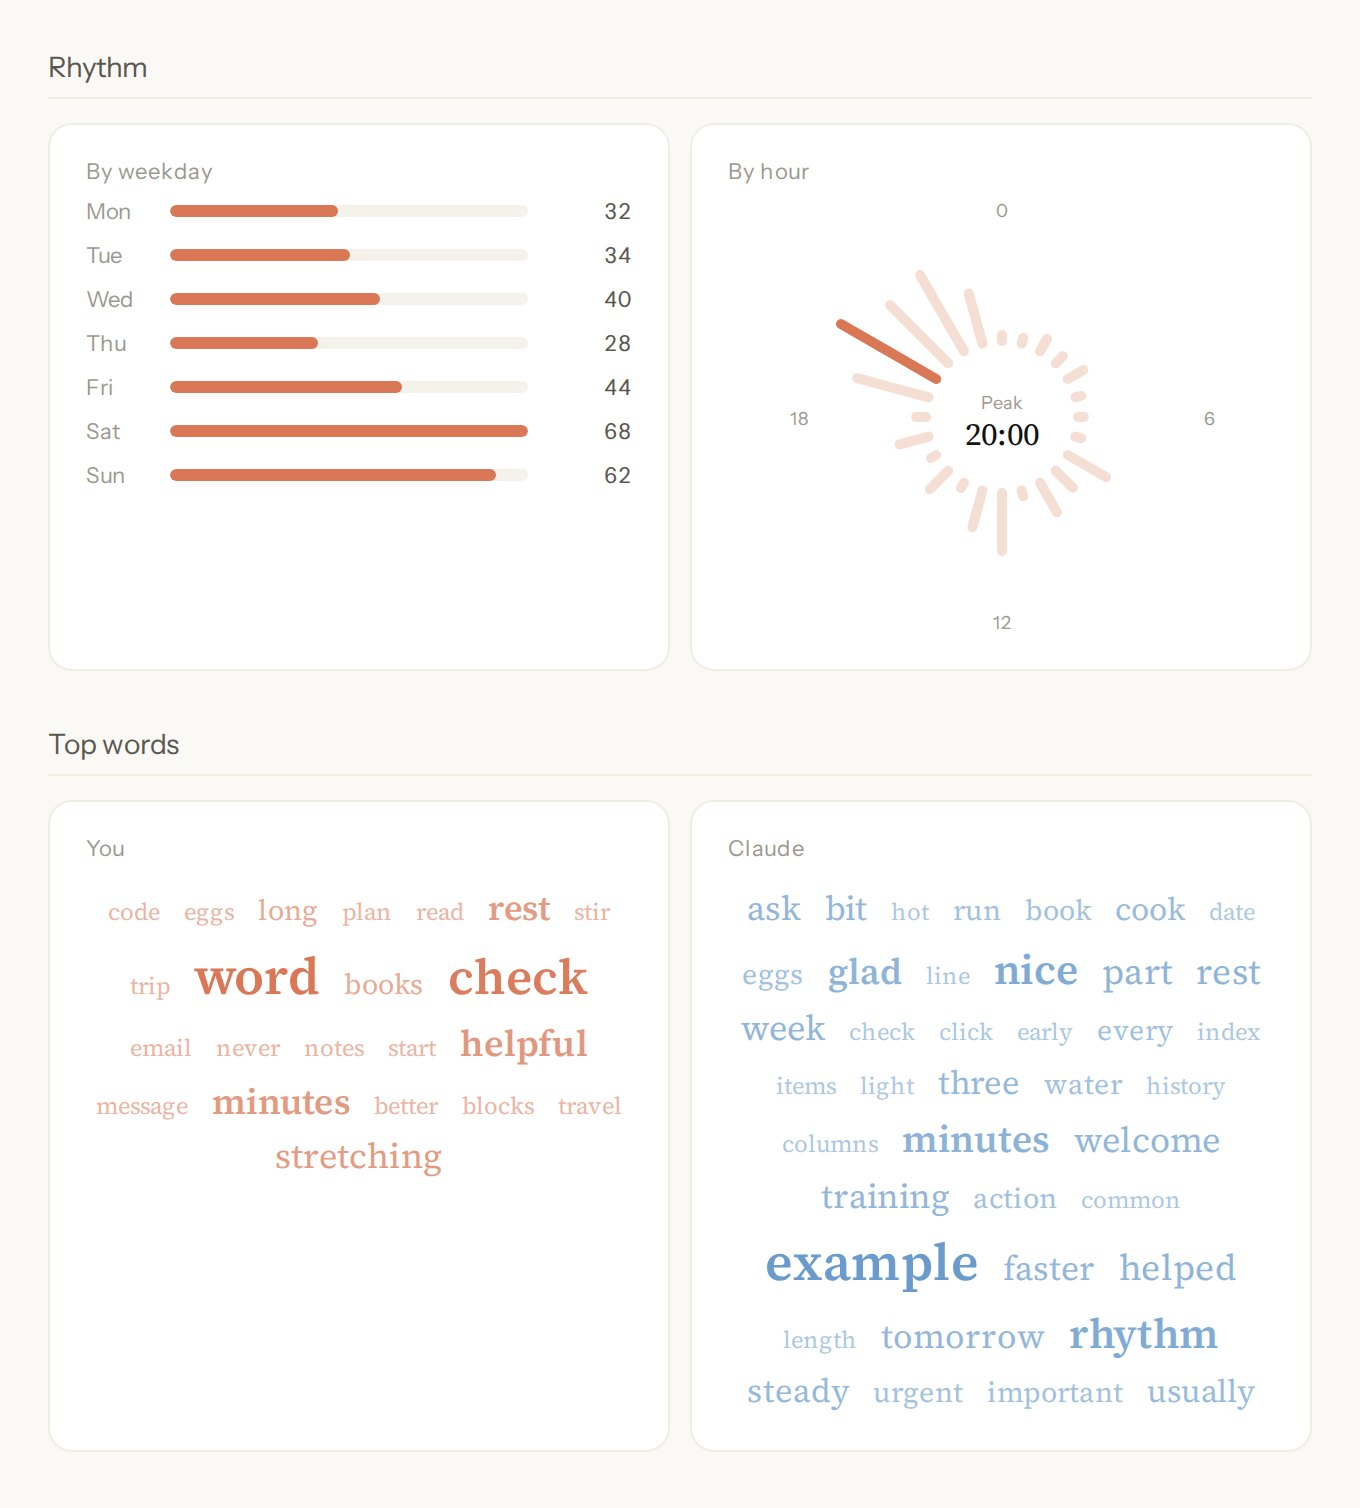
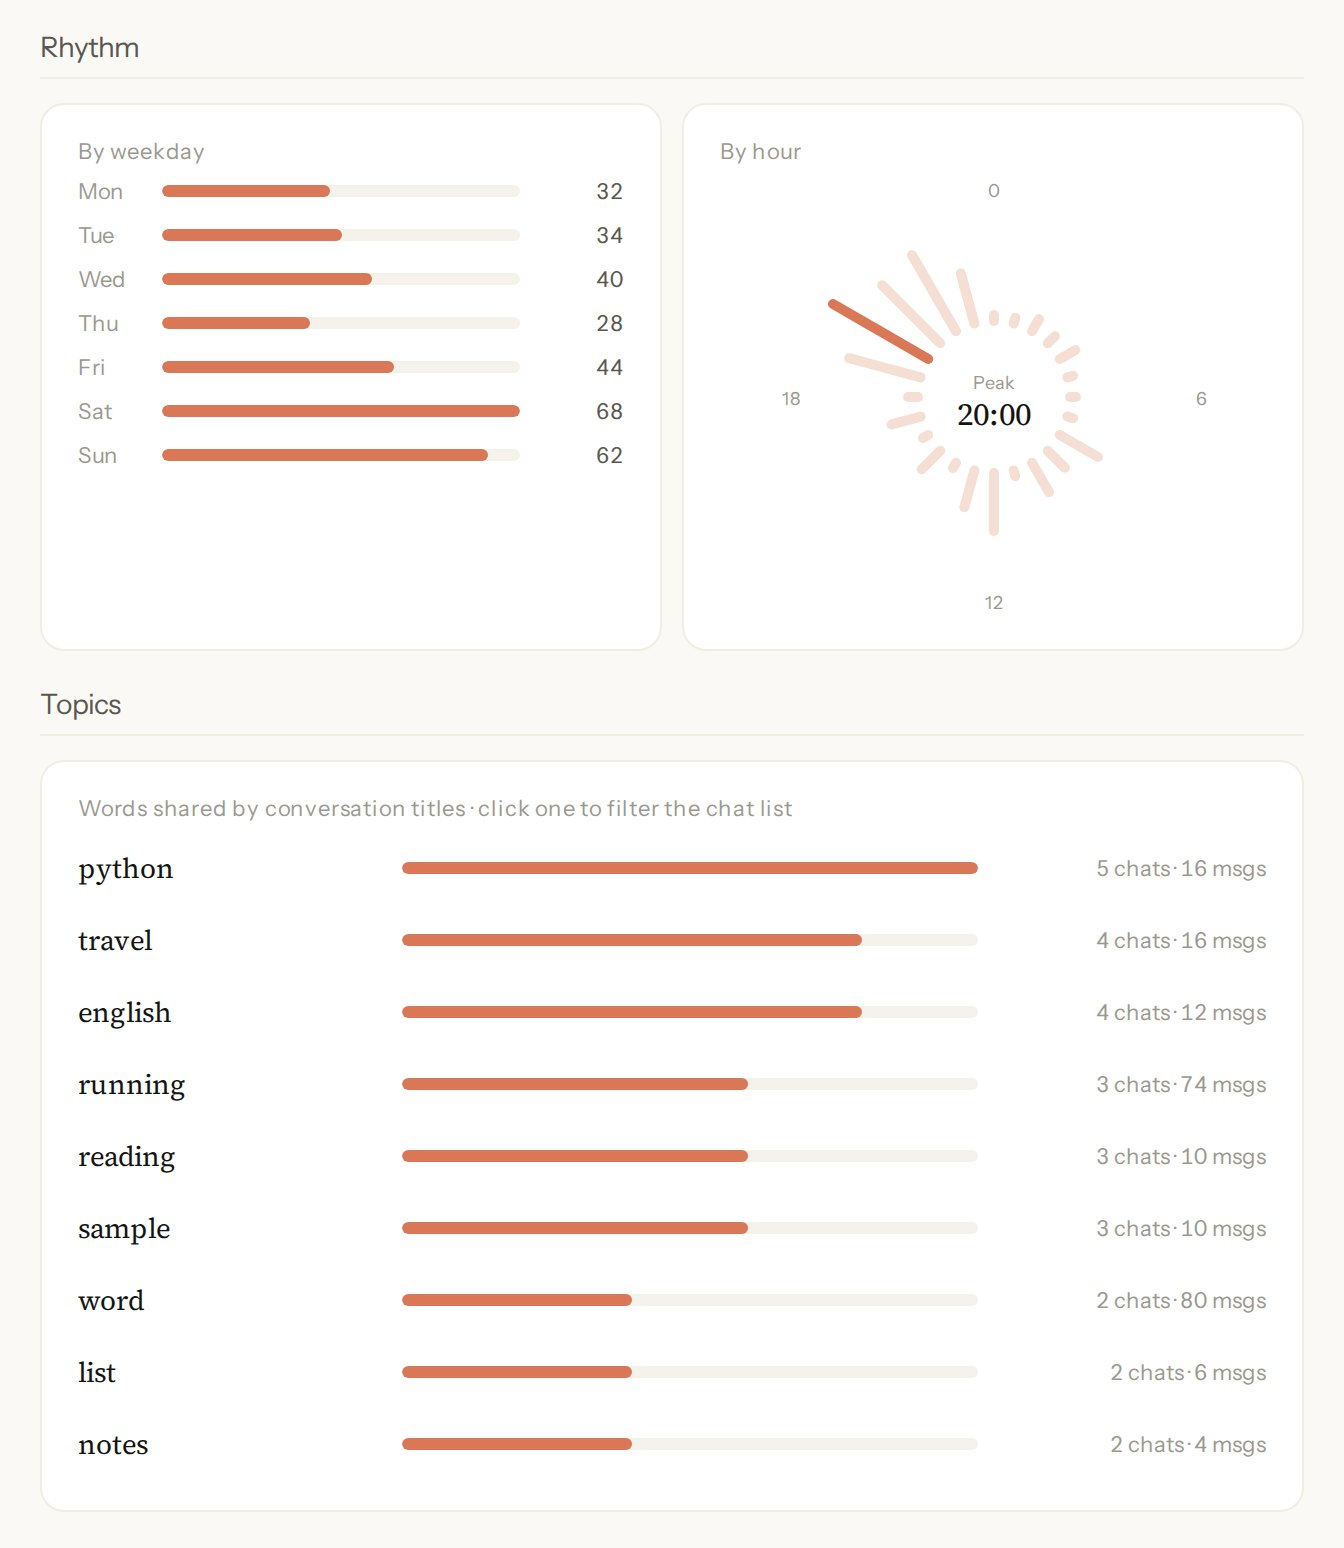
README: title topics metric, test command, screenshots
Document the title topics metric, use plain `node --test` (works on
Node 22+), show the rhythm and topics in the second stats screenshot,
and shorten the font licence note.

diff --git a/README.md b/README.md
@@ -15,9 +15,9 @@ The **Stats** tab turns an export into a usage profile. It answers questions suc
 - **How much and how regularly?** Conversations, messages, active days, the longest streak of consecutive days, and a daily heatmap.
 - **When?** Messages by weekday and by hour, and how many conversations happen late at night.
 - **Who does the talking?** Each side's share of the characters written, and characters per month for both.
-- **About what?** The longest conversations, the late-night ones, the most frequent words on each side, and the most-used emoji.
+- **About what?** Topics from conversation titles, the longest conversations, the late-night ones, the most frequent words on each side, and the most-used emoji.
 
-![The statistics view: weekly and daily rhythm, and top words](assets/screenshot-stats-2.jpg)
+![The statistics view: weekly and daily rhythm, and topics from conversation titles](assets/screenshot-stats-2.jpg)
 
 ### Metric definitions
 
@@ -31,6 +31,7 @@ The **Stats** tab turns an export into a usage profile. It answers questions suc
 | Daily heatmap | Messages per day for up to the last 53 weeks; the four colour levels split the non-zero days at their quartiles, so the scale adapts to light and heavy users alike. |
 | Rhythm | Messages by weekday (Monday first) and by hour of the day. |
 | Longest conversations | Ranked by visible messages, ties broken by characters. |
+| Title topics | Words from conversation titles, segmented like Top words. Each word counts once per conversation; words found in only one conversation are dropped. Ranked by conversations, then by the visible messages in them. Clicking a topic filters the conversation list by title. |
 | Top words | Words from each side's text, segmented with `Intl.Segmenter` (handles Chinese and English); code blocks, inline code and links removed, case folded; very short words (one Chinese character, or one or two Latin letters), common stopwords and words seen only once are dropped. |
 | Most-used emoji | Counted as whole grapheme clusters, so a combined emoji such as 👨💻 counts once; text symbols such as © are excluded. |
 
@@ -38,7 +39,7 @@ The **Stats** tab turns an export into a usage profile. It answers questions suc
 
 - **Local time throughout.** Days, hours and weekdays use the browser's time zone, so the numbers match what the timeline shows.
 - **Separated from the UI.** One pure function takes the conversation list and returns every figure; the charts only draw its output. The result is cached until the data changes (import, merge or delete).
-- **Tested on edge cases.** `node --test tests/` runs the computation on small hand-made inputs with known answers: streaks across a month boundary, the 01:59 / 02:00 cut-off, whitespace and code points in character counts, combined emoji, stopwords and code in word counts, and messages or conversations with nothing visible.
+- **Tested on edge cases.** `node --test` runs the computation on small hand-made inputs with known answers: streaks across a month boundary, the 01:59 / 02:00 cut-off, whitespace and code points in character counts, combined emoji, stopwords and code in word counts, title topics in mixed Chinese and English, and messages or conversations with nothing visible.
 - **No dependencies.** Charts are inline SVG drawn with the page's own colours and fonts; nothing is fetched from a CDN.
 
 ## Viewer features
@@ -91,24 +92,20 @@ A single-file front end (HTML + CSS + JavaScript) with no framework and no build
 ├── fonts/                   # bundled fonts; licenses in fonts/licenses/
 ├── demo-conversations*.json # sample data, English and Chinese (generated by scripts/gen-demo.py)
 ├── scripts/                 # demo data generator
-├── tests/                   # stats tests (node --test tests/)
+├── tests/                   # stats tests (node --test)
 ├── LICENSE
 └── .gitignore
 ```
 
 ## How it was built
 
-Built with AI coding tools. I specified the features and the privacy model (fully client-side; no data leaves the browser) and verified the behaviour through browser testing.
+Built with AI coding agents. I specified the features and the privacy model (fully client-side; no data leaves the browser) and verified the behaviour through browser testing.
 
 ## License
 
 The code is released under the [MIT License](LICENSE).
 
-The bundled fonts are licensed under the [SIL Open Font License 1.1](https://openfontlicense.org), not MIT:
-
-- [Source Serif 4](https://github.com/adobe-fonts/source-serif) ([license](fonts/licenses/SourceSerif4-OFL.txt))
-- [Instrument Sans](https://github.com/Instrument/instrument-sans) ([license](fonts/licenses/InstrumentSans-OFL.txt))
-- [JetBrains Mono](https://github.com/JetBrains/JetBrainsMono) ([license](fonts/licenses/JetBrainsMono-OFL.txt))
+The bundled fonts are under the SIL Open Font License; see [fonts/licenses/](fonts/licenses/).
 
 ---
 
@@ -127,9 +124,9 @@ The bundled fonts are licensed under the [SIL Open Font License 1.1](https://ope
 - **用得多不多、规律不规律？** 对话数、消息数、活跃天数、最长连续天数、每日热力图。
 - **什么时候用？** 按星期、按小时的消息分布，以及深夜对话有多少。
 - **谁说得多？** 双方字数占比，以及双方每月字数走势。
-- **聊些什么？** 最长的对话、深夜对话榜、双方高频词、常用 Emoji。
+- **聊些什么？** 标题话题、最长的对话、深夜对话榜、双方高频词、常用 Emoji。
 
-![统计页：星期与 24 小时分布、高频词](assets/screenshot-stats-2.jpg)
+![统计页：星期与 24 小时分布、标题话题](assets/screenshot-stats-2.jpg)
 
 #### 指标口径
 
@@ -143,6 +140,7 @@ The bundled fonts are licensed under the [SIL Open Font License 1.1](https://ope
 | 每日热力图 | 最近至多 53 周每天的消息数；颜色四档按非零日的四分位数切分，用得多和用得少的人都能看出层次。 |
 | 节奏 | 按星期（周一在前）和按小时的消息数。 |
 | 最长对话 | 按可见消息数排序，相同时比字数。 |
+| 标题话题 | 对话标题分词，规则同高频词；一个词在一个对话里只算一次；只在一个对话里出现的词去掉；按对话数排序，同分看这些对话的可见消息数；点击话题按标题筛选对话列表。 |
 | 高频词 | 用 `Intl.Segmenter` 分词（中英文都支持），去掉代码块、行内代码和链接，统一小写；过滤过短的词（中文单字、1–2 个字母的英文）、常见停用词和只出现一次的词。 |
 | 常用 Emoji | 按完整字形计数，👨💻 这类组合 emoji 算 1 个；©、® 等文本符号不计。 |
 
@@ -150,7 +148,7 @@ The bundled fonts are licensed under the [SIL Open Font License 1.1](https://ope
 
 - **统一本地时区**：日期、小时、星期都按浏览器时区计算，和时间轴显示一致。
 - **计算与界面分离**：一个纯函数接收对话列表、返回全部数值，图表只负责绘制；结果缓存到数据变化（导入、合并、删除）时才重算。
-- **边界情况有测试**：`node --test tests/` 用预先算好答案的小样例验证跨月连续天数、01:59/02:00 分界、字数的空白与码点、组合 emoji、高频词的停用词与代码过滤、没有可见内容的消息和对话。
+- **边界情况有测试**：`node --test` 用预先算好答案的小样例验证跨月连续天数、01:59/02:00 分界、字数的空白与码点、组合 emoji、高频词的停用词与代码过滤、中英混排的标题话题、没有可见内容的消息和对话。
 - **零依赖**：图表是内联 SVG，沿用页面自己的配色和字体，不从 CDN 加载任何东西。
 
 ### 查看器功能
@@ -199,7 +197,7 @@ python -m http.server 8765
 ├── fonts/                   # 内置字体，许可证在 fonts/licenses/
 ├── demo-conversations*.json # 演示数据，英文与中文各一份（由 scripts/gen-demo.py 生成）
 ├── scripts/                 # 演示数据生成脚本
-├── tests/                   # 统计测试（node --test tests/）
+├── tests/                   # 统计测试（node --test）
 ├── LICENSE
 └── .gitignore
 ```
@@ -212,4 +210,4 @@ python -m http.server 8765
 
 代码采用 [MIT 许可证](LICENSE)。
 
-内置字体采用 [SIL Open Font License 1.1](https://openfontlicense.org)，不属于 MIT：Source Serif 4、Instrument Sans、JetBrains Mono，许可证全文见 `fonts/licenses/`。
+内置字体采用 SIL Open Font License，许可证见 [fonts/licenses/](fonts/licenses/)。
